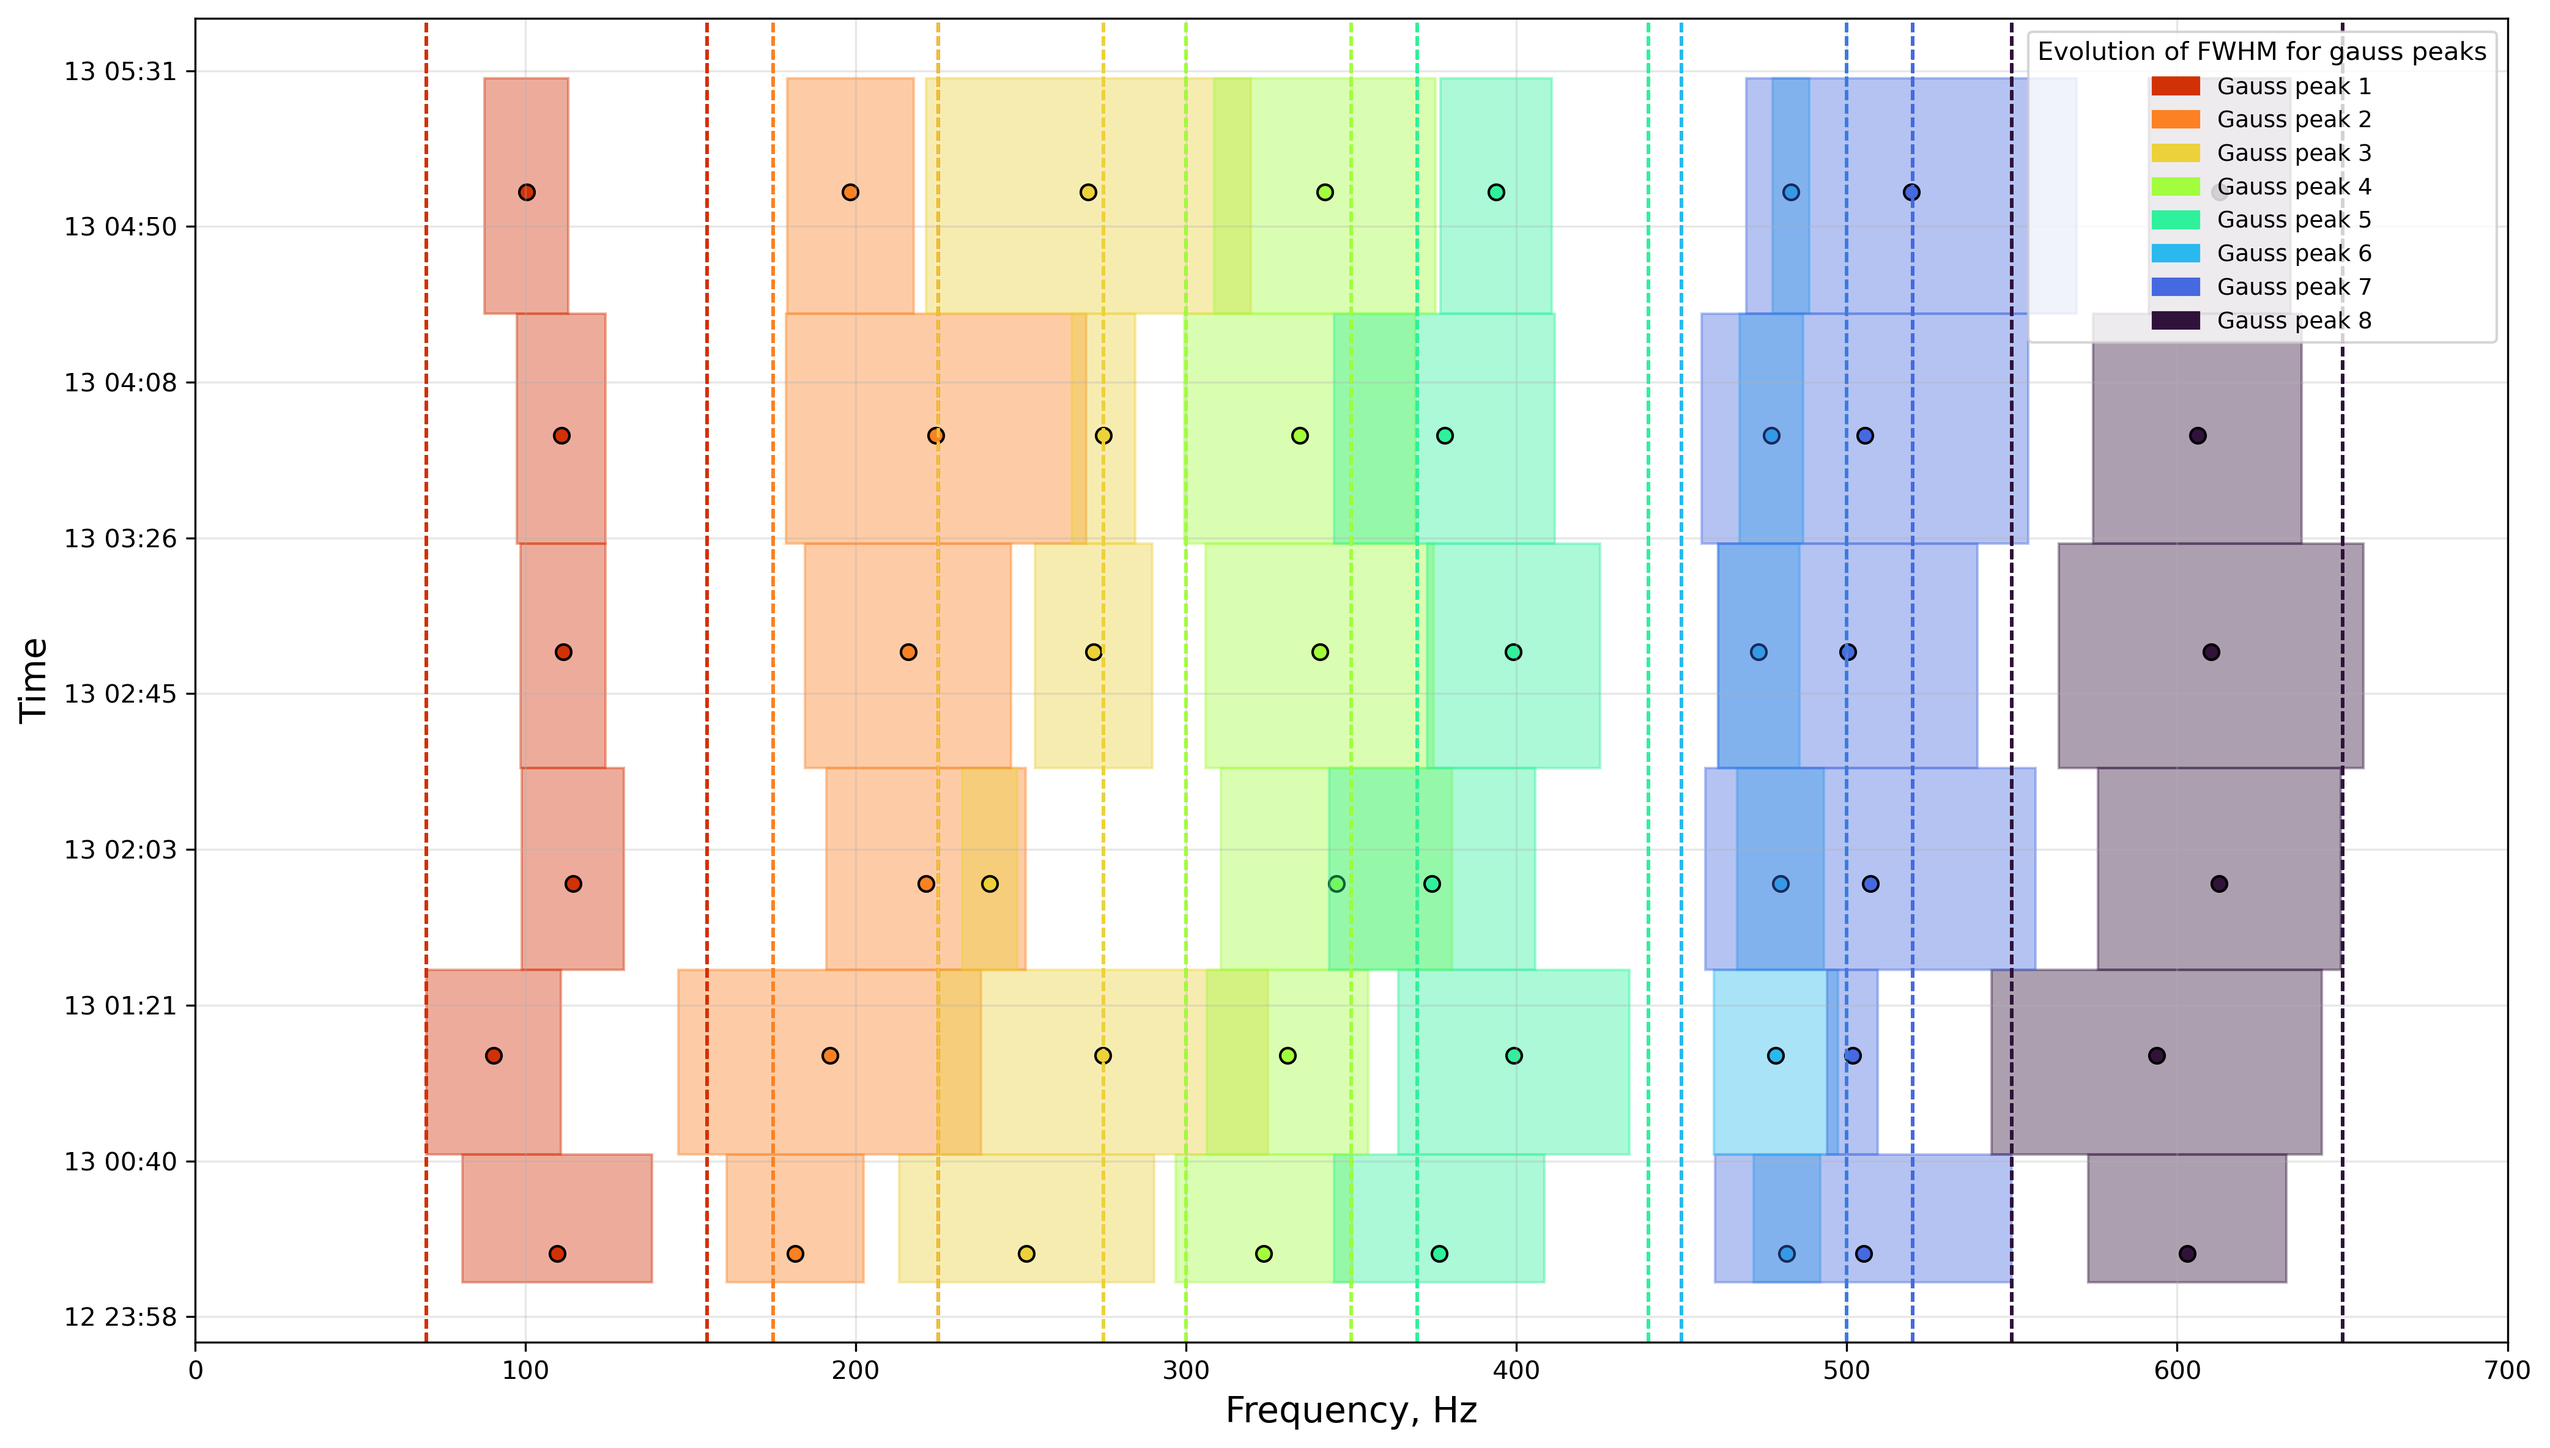
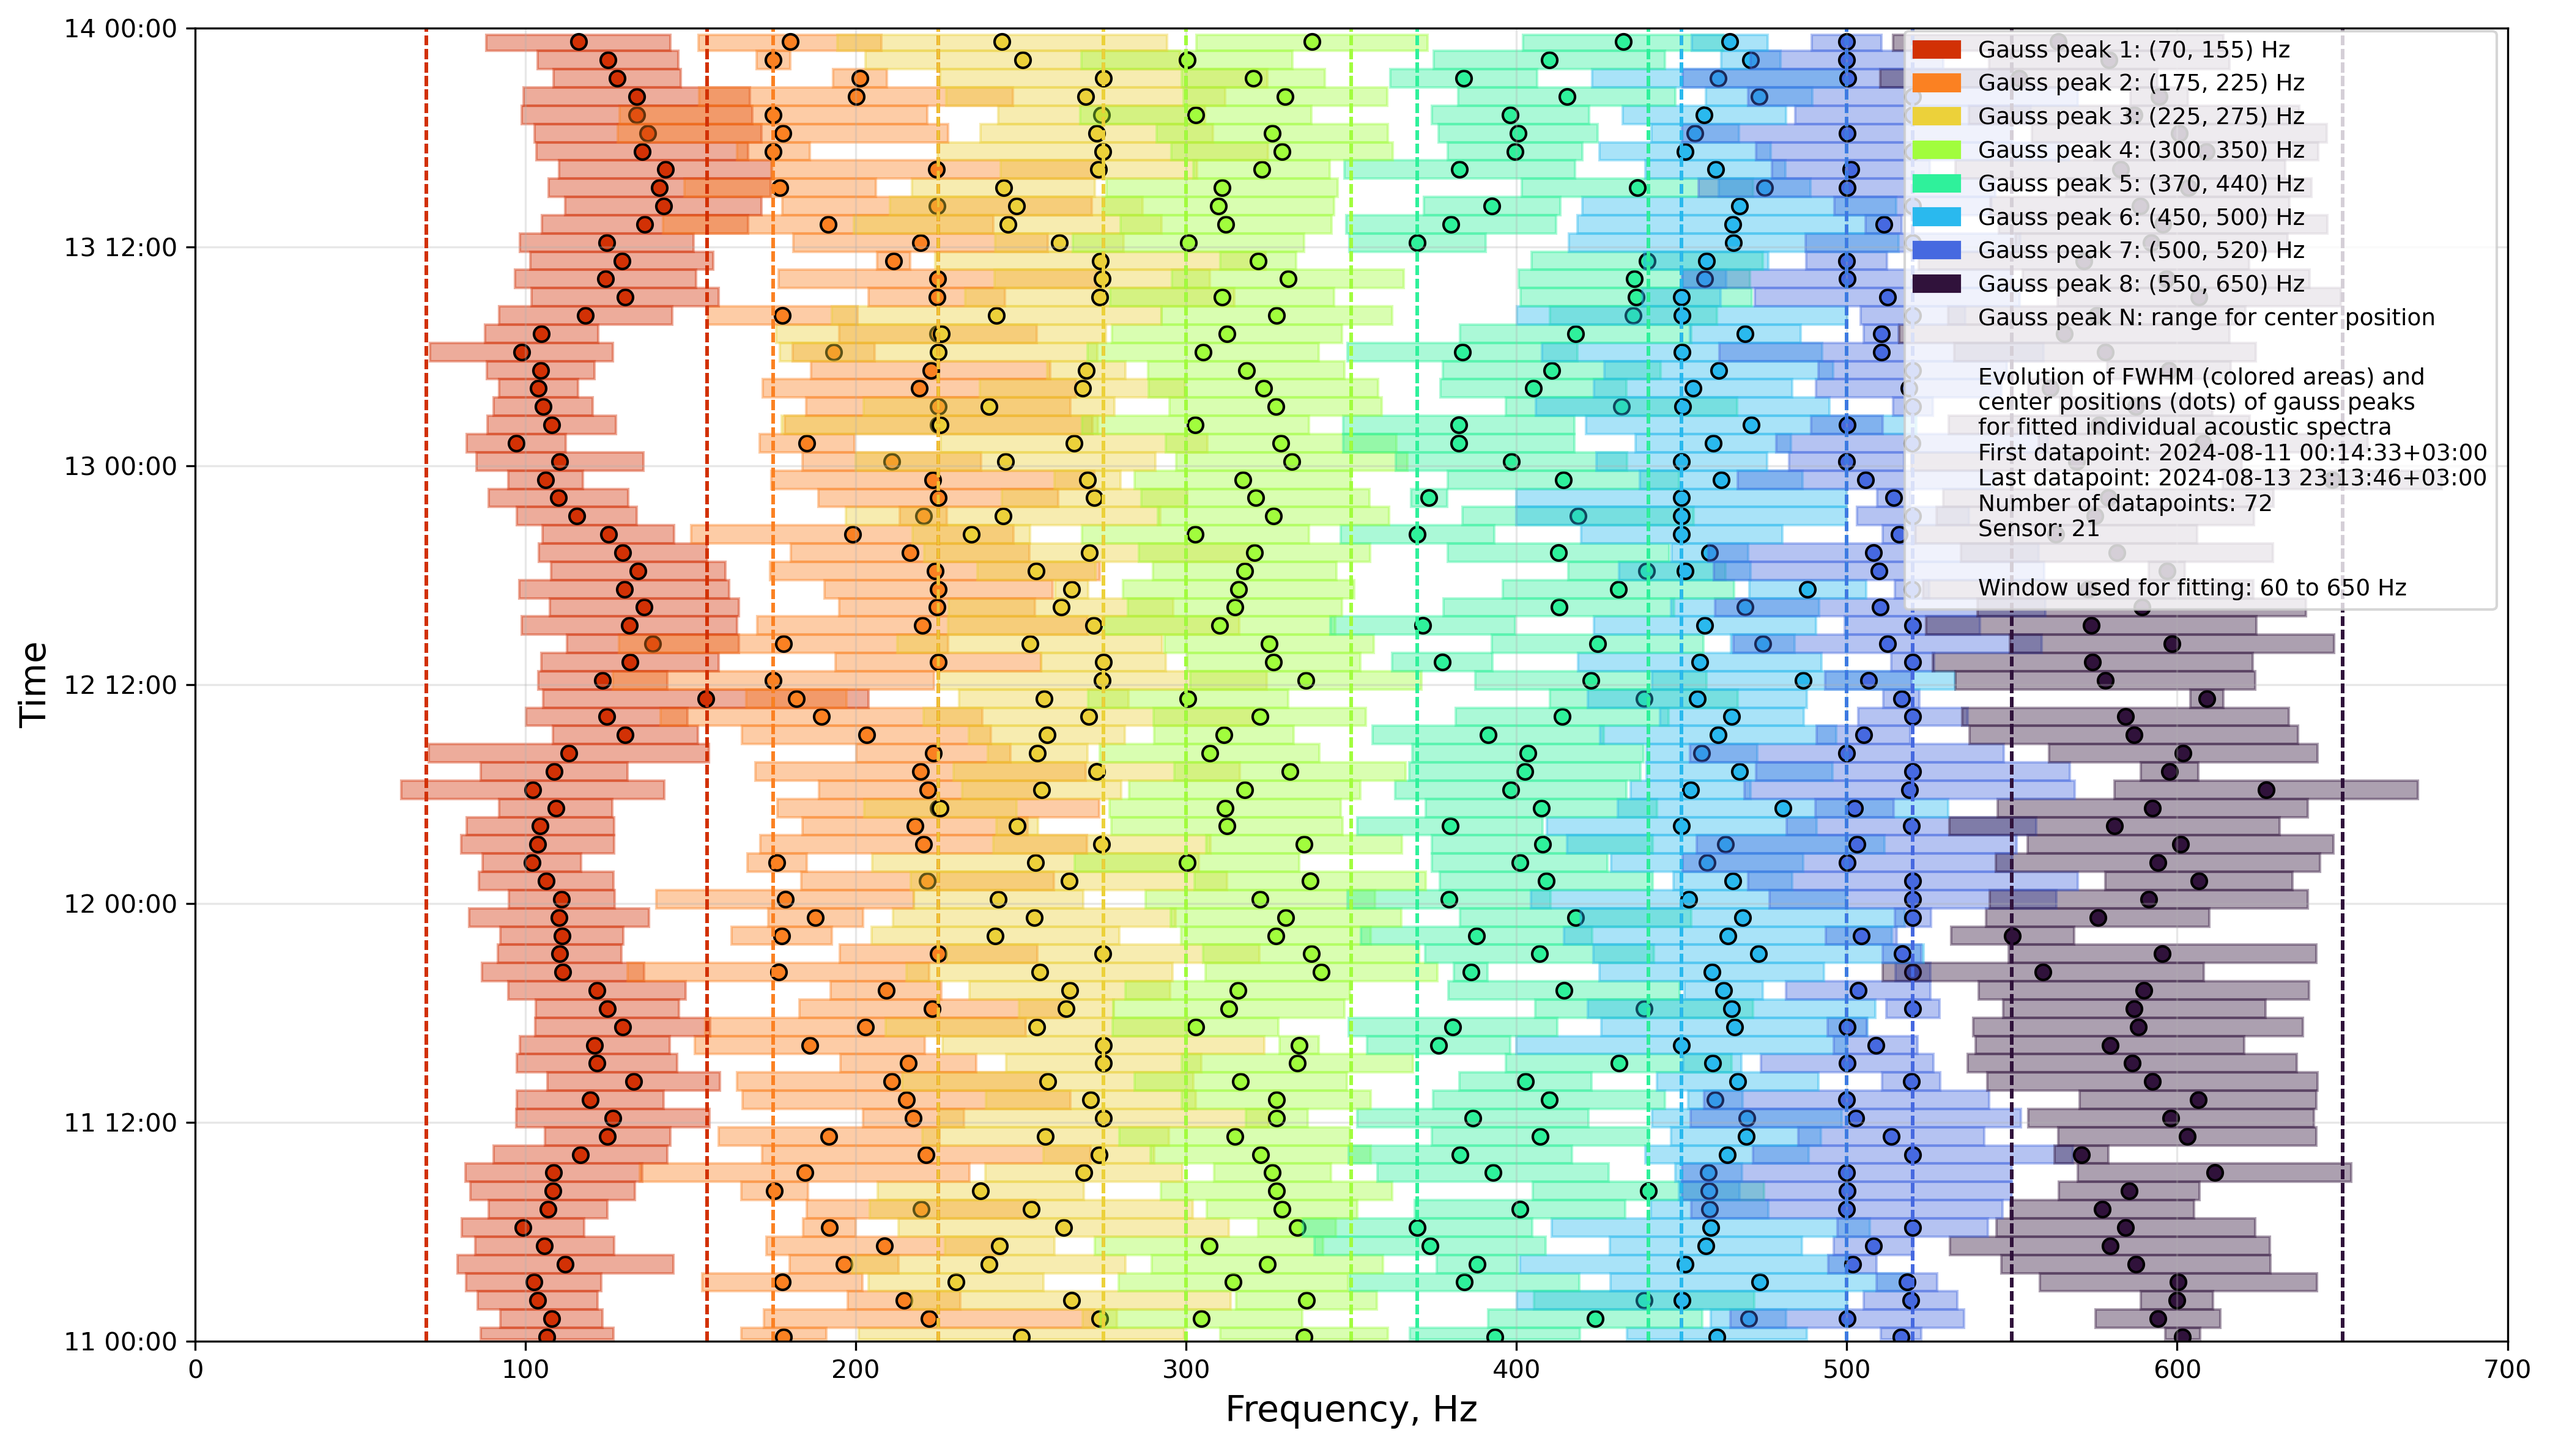
Better timelabels and evolution example

diff --git a/assets/template.html b/assets/template.html
@@ -61,7 +61,7 @@
     <!-- -->
       <div class="column">
 	  <div style="display: flex; justify-content: space-between; align-items: center; margin-left: 60px">
-	      <div class="title">Gaussian fit for averaged spectrum</div>
+	      <div class="title">Gaussian fit</div>
 	      <select id="gaussImageSelector" style="width: 100px; margin-right: 20px;">
 		  {% for sensor in sensors %}
 		  <option value="{{OUTPUT_DIR}}/gaussians-sensor-{{sensor}}.png">Sensor {{sensor}}</option>
@@ -73,7 +73,7 @@
 
       <div class="column">
 	  <div style="display: flex; justify-content: space-between; align-items: center; margin-left: 60px">
-	      <div class="title">Gaussian fit evolution</div>
+	      <div class="title">Gaussian evolution</div>
 	      <select id="evolutionImageSelector" style="width: 100px; margin-right: 20px;">
 		  {% for sensor in sensors %}
 		  <option value="{{OUTPUT_DIR}}/evolution-sensor-{{sensor}}.png">Sensor {{sensor}}</option>

diff --git a/evolution_plot.py b/evolution_plot.py
@@ -13,6 +13,7 @@ from preprocessing import get_info_total, load_dataset, show_image, download_csv
 from similarity_plot import get_ticks_for_helsinki_tz, format_time_to_helsinki, get_extended_datetimes
 from gauss_plot import plot_rectangles, fit_model
 
+
 def plot_evolution(ds, start, end, output_path, name_overide=None):
     logging.info(f"Plotting peak evolution for requested range\nSTART:   {start}\nEND:     {end}")
     assert start < end
@@ -20,17 +21,17 @@ def plot_evolution(ds, start, end, output_path, name_overide=None):
     all_sensors = np.unique(ds.sensor)
 
     for sensor_id in all_sensors:
-        filtered_by_timerange = ds.where(
+        filtered_ds = ds.where(
             (ds.sensor == sensor_id) &
             (ds['datetime'] > start) & 
             (ds['datetime'] < end),
             drop=True,
             other=0
         )
-        if len(filtered_by_timerange['datetime'].values) == 0:
+        if len(filtered_ds['datetime'].values) == 0:
             continue
 
-        measurement_datetimes = np.array([dt.astimezone(HELSINKI_TZ) for dt in filtered_by_timerange['datetime'].values])
+        measurement_datetimes = np.array([dt.astimezone(HELSINKI_TZ) for dt in filtered_ds['datetime'].values])
         num_of_datapoints = len(measurement_datetimes)
         logging.info(f"\nFor sensor {sensor_id}:")
         logging.info(f"First datapoints: {min(measurement_datetimes)}")
@@ -42,15 +43,15 @@ def plot_evolution(ds, start, end, output_path, name_overide=None):
         assert extended_datetimes[0] <= start # pre-extension datetime should be before start or at start
         assert extended_datetimes[-1] >= end # post-extension datetime should be after end or at end
 
-        unix_epochs= np.array([t.timestamp() for t in extended_datetimes]) # Unix/Posix epochs (counted from UTC)
+        unix_epochs = np.array([t.timestamp() for t in extended_datetimes]) # Unix/Posix epochs (counted from UTC)
         voronoi_edges = (unix_epochs[:-1] + unix_epochs[1:]) / 2
         leftmost_edge = pd.to_datetime(voronoi_edges[0], unit='s', utc=True).tz_convert('Europe/Helsinki')
         rightmost_edge = pd.to_datetime(voronoi_edges[-1], unit='s', utc=True).tz_convert('Europe/Helsinki')
         logging.info(f"Voronoi edges from:  {leftmost_edge}\nVoronoi edges to:    {rightmost_edge}")
 
-        spectra = np.vstack(filtered_by_timerange['spectrum'].values)
-        freq_factor = filtered_by_timerange['frequency_scaling_factor'].values[0]
-        freq_start = filtered_by_timerange['frequency_start_index'].values[0]
+        spectra = np.vstack(filtered_ds['spectrum'].values)
+        freq_factor = filtered_ds['frequency_scaling_factor'].values[0]
+        freq_start = filtered_ds['frequency_start_index'].values[0]
         spectra_len = spectra.shape[1]
         frequencies = np.array([(bin+freq_start)*freq_factor for bin in range(spectra_len)])
 
@@ -89,19 +90,35 @@ def plot_evolution(ds, start, end, output_path, name_overide=None):
                     ax.scatter(center, measurement_datetime.timestamp(), color=color, edgecolors='black')
                     plot_rectangles(ax, gauss_count, fill=False)
 
+
+        datetimes_for_ticks = get_ticks_for_helsinki_tz(start, end)
+        timestamps_for_ticks = [d.timestamp() for d in datetimes_for_ticks]
+        ax.set_yticks(timestamps_for_ticks, labels=datetimes_for_ticks)
+        ax.yaxis.set_major_formatter(FuncFormatter(format_time_to_helsinki))
+
         ax.set_xlabel('Frequency, Hz', fontsize=14)
         ax.set_ylabel('Time', fontsize=14)
         ax.set_xlim(0, 700)
-        
-        ax.yaxis.set_major_formatter(FuncFormatter(format_time_to_helsinki))
+        ax.set_ylim(start.timestamp(), end.timestamp())
 
         handles = []
         for i, cfg in enumerate(FITTING_MODEL):
             if cfg['type'] == 'peak':
                 color = COLORMAP_FOR_GAUSSIANS(i / gauss_count)
-                handles.append(mpatches.Patch(color=color, label=f'Gauss peak {i}'))
-        # ax.legend(handles=handles, title='Evolution of FWHM for gauss peaks')
-        fig.legend(title='Evolution of FWHM for gauss peaks', bbox_to_anchor=(0.98, 0.98), handles=handles, fontsize=9)
+                center = cfg['center_range']
+                handles.append(mpatches.Patch(color=color, label=f'Gauss peak {i}: {center} Hz'))
+        patch = mpatches.Patch(color='None', label=f"Gauss peak N: range for center position")
+        handles.append(patch) 
+        datapoints_info = "\nEvolution of FWHM (colored areas) and\ncenter positions (dots) of gauss peaks\nfor fitted individual acoustic spectra\n{}Sensor: {}".format(get_info_total(filtered_ds), sensor_id, FITTING_WINDOW_MIN, FITTING_WINDOW_MAX)
+        patch = mpatches.Patch(color='None', label=datapoints_info) 
+        handles.append(patch)
+        window_text = f"\nWindow used for fitting: {FITTING_WINDOW_MIN} to {FITTING_WINDOW_MAX} Hz"
+        patch = mpatches.Patch(color='None', label=window_text)
+        handles.append(patch)
+        fig.legend(bbox_to_anchor=(0.98, 0.98), handles=handles, fontsize=9)
+
+        patch = mpatches.Patch(color='None', label=f"Gauss peak N: Center, FWHM, Amplitude")
+        handles.append(patch) 
         plt.tight_layout()
         
         if name_overide:
@@ -118,9 +135,9 @@ def plot_evolution(ds, start, end, output_path, name_overide=None):
     return images
 
 def plot_peak_evolution_example():
-    sensors = [116]
-    start = datetime(2025, 2, 13, 0, 0, tzinfo=HELSINKI_TZ)
-    end = datetime(2025, 2, 13, 6, 0, tzinfo=HELSINKI_TZ)
+    sensors = [21]
+    start = datetime(2024, 8, 11, 0, tzinfo = HELSINKI_TZ)
+    end = datetime(2024, 8, 14, 0, 0, tzinfo = HELSINKI_TZ)
     csv_files = download_csv_if_needed(
         sensors,
         start.astimezone(UTC_TZ),

diff --git a/similarity_plot.py b/similarity_plot.py
@@ -47,17 +47,30 @@ def format_time_to_helsinki(x, _):
     dt = datetime.fromtimestamp(x, tz=HELSINKI_TZ) # Timestamps are converted to Helsinki timezone
     return dt.strftime('%d %H:%M')
 
-def get_ticks_for_helsinki_tz(start, end, step_in_hours):
+def get_ticks_for_helsinki_tz(start, end):
     start = start.astimezone(HELSINKI_TZ)
     end = end.astimezone(HELSINKI_TZ)
     assert start < end
-    midnight_before_start = start.replace(hour=0, minute=0, second=0, microsecond=0) 
-    midnight_after_end = end.replace(hour=0, minute=0, second=0, microsecond=0) + pd.Timedelta(days=1)
-    ticks = [copy.deepcopy(midnight_before_start)]
-    moving = midnight_before_start
-    while (moving < midnight_after_end):
-        moving = moving + pd.Timedelta(hours=step_in_hours)
-        ticks.append(moving)
+
+    if (end - start) < pd.Timedelta(hours = 12):
+        step_in_hours = 1
+        before_start = start.replace(minute=0, second=0, microsecond=0) 
+        after_end    = end.replace(minute=0, second=0, microsecond=0)
+        ticks = [copy.deepcopy(before_start)]
+        moving = before_start
+        while (moving < after_end):
+            moving = moving + pd.Timedelta(hours=step_in_hours)
+            ticks.append(moving)
+    else:
+        step_in_hours = 12
+        midnight_before_start = start.replace(hour=0, minute=0, second=0, microsecond=0) 
+        midnight_after_end    = end.replace(hour=0, minute=0, second=0, microsecond=0) + pd.Timedelta(days=1)
+        ticks = [copy.deepcopy(midnight_before_start)]
+        moving = midnight_before_start
+        while (moving < midnight_after_end):
+            moving = moving + pd.Timedelta(hours=step_in_hours)
+            ticks.append(moving)
+
     return ticks
 
 def get_extended_datetimes(ds, sensor_id, start, end):
@@ -177,7 +190,7 @@ def plot_similarity(ds, start, end, output_path, name_overide=None):
         # Data is ploted using unix epochs
         # Ticks are set using unix epochs
         # Tick labels show datetimes in Helsinki timezone
-        datetimes_for_ticks = get_ticks_for_helsinki_tz(start, end, 12) 
+        datetimes_for_ticks = get_ticks_for_helsinki_tz(start, end) 
         epochs_for_ticks = [x.timestamp() for x in datetimes_for_ticks] # Unix epochs
 
         # Settings for Axes
